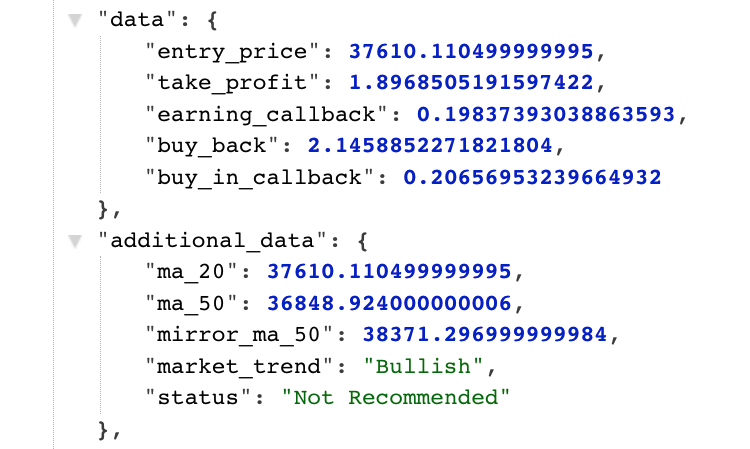
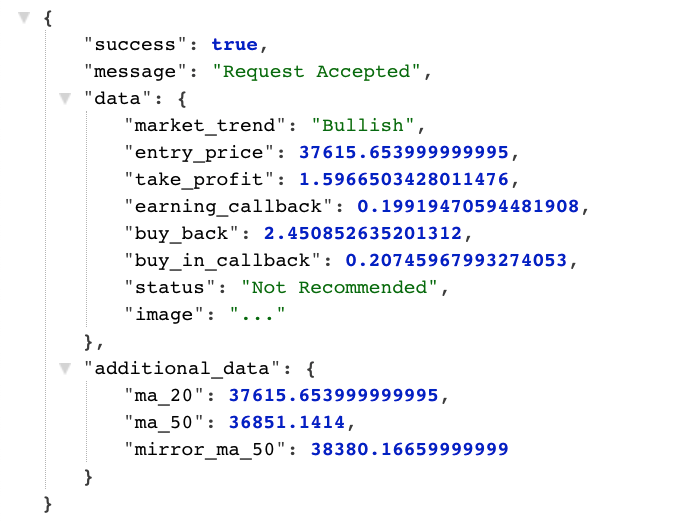
update details

diff --git a/main.py b/main.py
@@ -94,7 +94,7 @@ async def root(symbol: str, interval: str, entry: float):
     df['buy_in_callback'] = df['buy_back'] + (0.1 * ((df['entry_price']) - df['buy_back']))
     df['buy_in_callback_percent'] = abs((df['buy_in_callback'] - df['buy_back']) / df['buy_back'] * 100)
 
-    print(df[['ma_20', 'ma_50', 'diff', 'mirror_ma_50', 'market_bullish', 'take_profit', 'take_profit_percent', 'buy_back',
+    print(df[['ma_20', 'ma_50', 'diff', 'mirror_ma_50', 'take_profit', 'take_profit_percent', 'buy_back',
               'buy_back_percent', 'entry_price', 'earning_callback', 'earning_callback_percent', 'buy_in_callback',
               'buy_in_callback_percent']])
 
@@ -144,7 +144,7 @@ async def root(symbol: str, interval: str, entry: float):
             "buy_back": df['buy_back_percent'].iloc[-1],
             "buy_in_callback": df['buy_in_callback_percent'].iloc[-1],
             "status": "Recommended" if price < df['entry_price'].iloc[-1] else "Not Recommended",
-            "image": base64_image
+            "image": "..."
         },
         "additional_data": {
             "ma_20": df['ma_20'].iloc[-1],
